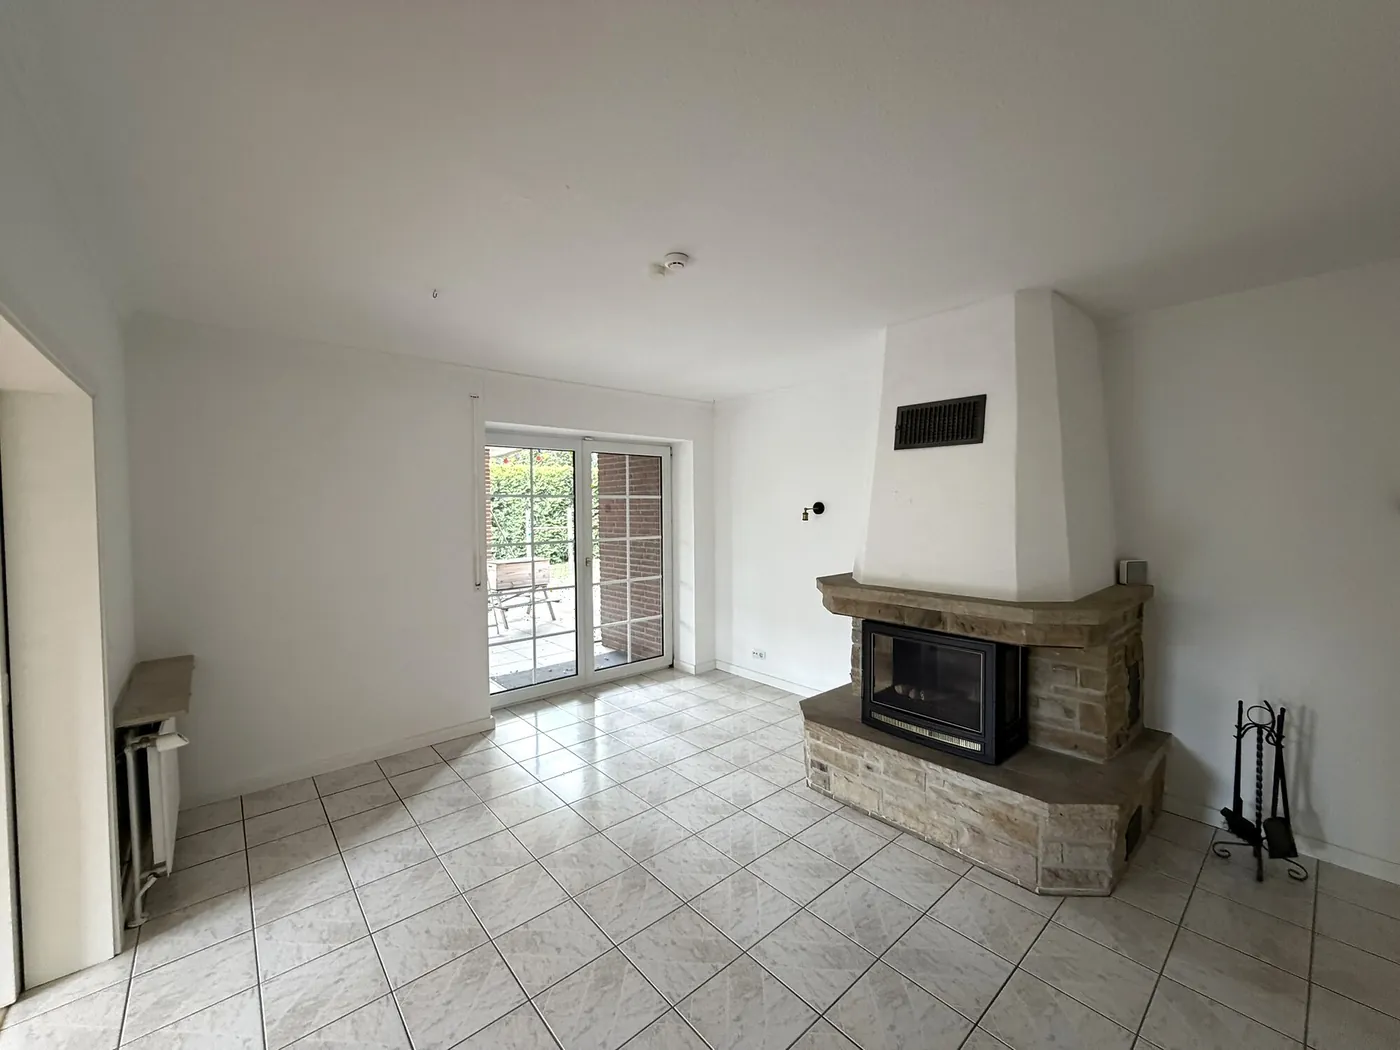
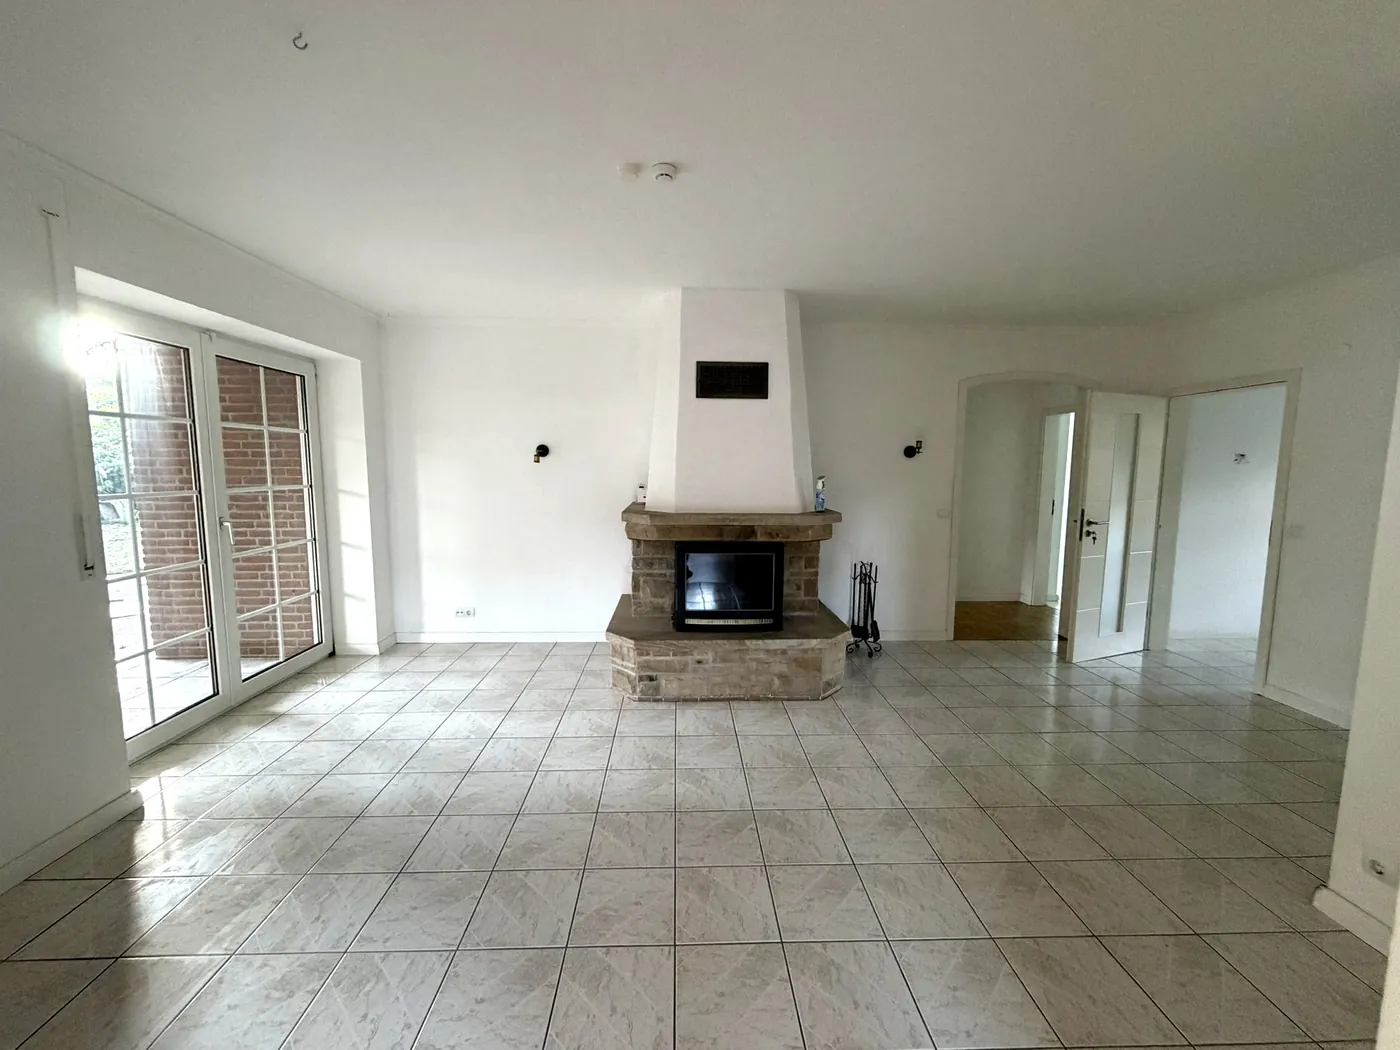
update

diff --git a/index.html b/index.html
@@ -628,7 +628,7 @@
             <div class="ph"><img loading="lazy" src="img/kueche_moebliert_archivfoto.webp" alt="Küche im Erdgeschoss mit ehemaliger Einbauküche (Archivaufnahme)"><span class="ph-tag archiv">möbliert · Archiv</span></div>
             <div class="ph"><img loading="lazy" src="img/kueche_eg.webp" alt="Küche im Erdgeschoss (aktuell, ohne Einbauküche)"><span class="ph-tag">aktuell</span></div>
           </div>
-          <p class="photo-cap" style="margin-top:10px;">Möblierte Archivaufnahmen vermitteln den Wohneindruck. Übergabe: leer und gereinigt, ohne Einbauküche – alle Anschlüsse vorhanden.</p>
+          <p class="photo-cap" style="margin-top:10px;">Möblierte Archivaufnahmen vermitteln den Wohneindruck (Home-Staging). Übergabe: leer und gereinigt, ohne Einbauküche – alle Anschlüsse vorhanden.</p>
         </div>
       </div>
 
@@ -788,7 +788,7 @@
     <div class="wrap">
       <div class="section-head">
         <div class="section-eyebrow">Eckdaten</div>
-        <h2>Auf einem Blick</h2>
+        <h2>Auf einen Blick</h2>
       </div>
       <div class="facts-grid">
         <div class="fact-row"><span class="k">Objektart</span><span class="v">EFH mit Einliegerwohnung (WEG, 2 Einheiten; auch als ZFH nutzbar)</span></div>
@@ -920,7 +920,7 @@
     <div class="wrap">
       <div class="section-eyebrow">Bildergalerie</div>
       <h2>Weitere Aufnahmen</h2>
-      <p style="max-width:620px;color:var(--taupe);">Alle weiteren Innen- und Außenaufnahmen – Wohnräume, Bäder, Nebenräume und Außenbereich – für einen vollständigen Eindruck schon vor der Besichtigung. Einige Aufnahmen des Erdgeschosses zeigen die Räume in möbliertem Zustand (Archivfotos) – die Übergabe des EG erfolgt leer und gereinigt.</p>
+      <p style="max-width:620px;color:var(--taupe);">Alle weiteren Innen- und Außenaufnahmen – Wohnräume, Bäder, Nebenräume und Außenbereich – für einen vollständigen Eindruck schon vor der Besichtigung. Einige Aufnahmen des Erdgeschosses zeigen die Räume als möblierte Archivfotos (Home-Staging-Eindruck) – die Übergabe des EG erfolgt leer und gereinigt.</p>
       <button class="galerie-btn" onclick="galerieOeffnen()">
         <svg width="20" height="20" viewBox="0 0 24 24" fill="none" stroke="currentColor" stroke-width="1.7"><rect x="3" y="3" width="18" height="18" rx="2"/><circle cx="8.5" cy="8.5" r="1.5"/><path d="M21 15l-5-5L5 21"/></svg>
         Weitere Aufnahmen ansehen
@@ -983,6 +983,7 @@ img/haus_strassensicht_sonnenuntergang.webp
 img/rueckseite_haus_sonne.webp
 img/haus_strassenseite_nah.webp
 img/zuwegung_haustuer.webp
+img/eingang_vorgarten.webp
 img/drohne_top.webp
 img/drohne_rueck.webp
 img/drohne_weit.webp
@@ -990,8 +991,10 @@ img/drohne_seite.webp
 img/wohn_esszimmer_moebliert_archivfoto.webp
 img/kaminzimmer_moebliert_archivfoto.webp
 img/schlafzimmer_moebliert_archivfoto.webp
+img/flur_kaminzimmer.webp
 img/wohn_esszimmer_3.webp
-img/kuechenraum_eg_aktuell.webp
+img/wohnzimmer_2.webp
+img/kueche_laengs.webp
 img/schlafzimmer_eg.webp
 img/kind_1_eg.webp
 img/kind_2_eg.webp
